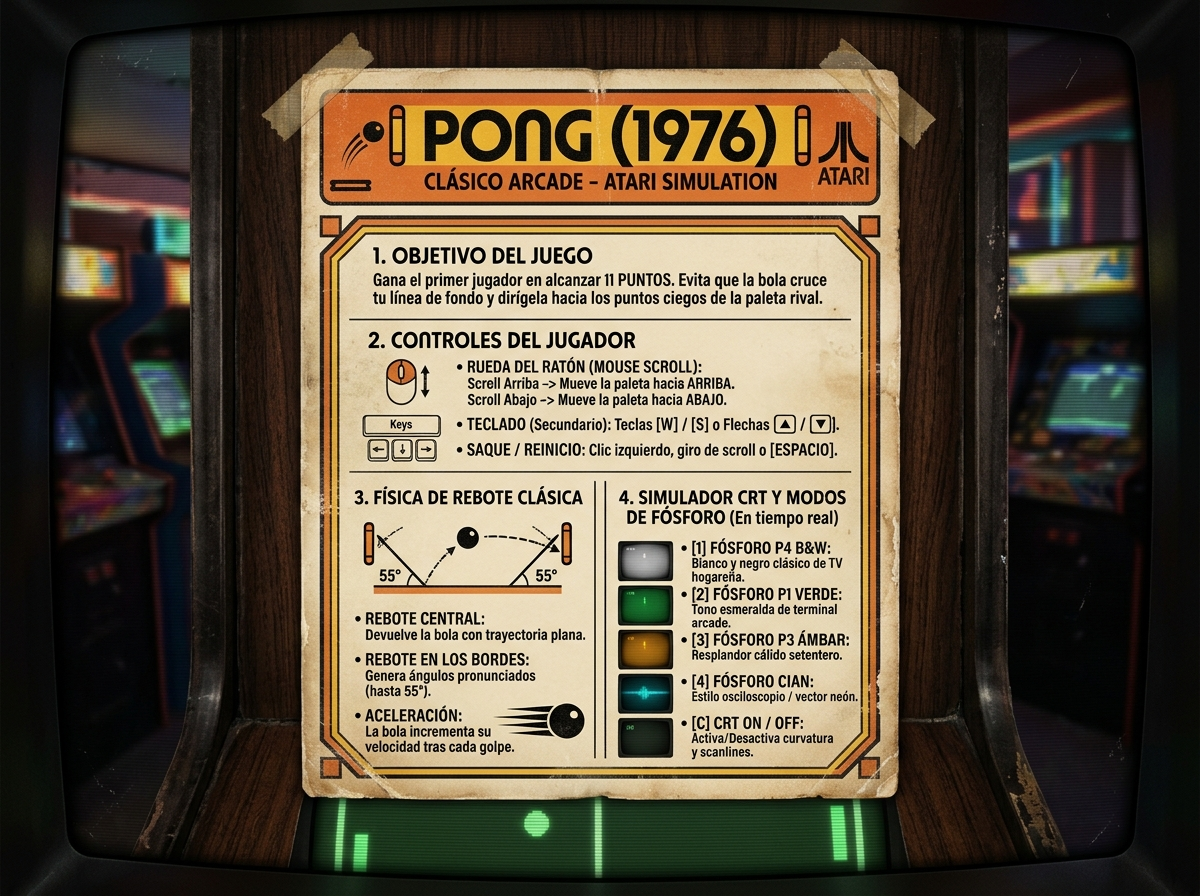
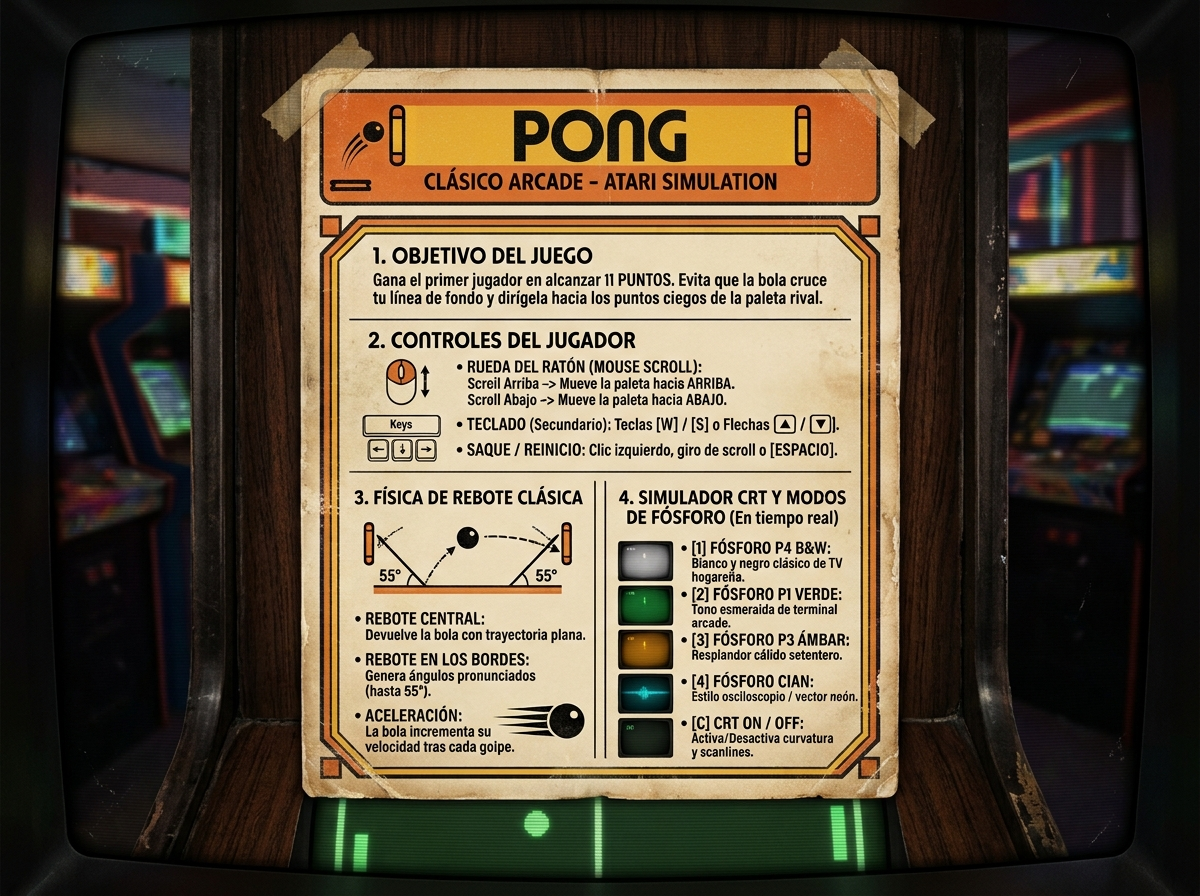
Update cover art to 1972-1973 Atari original release and remove 1976 year references from documentation

Changed region(s): [[0.3392, 0.0938, 0.6475, 0.1875], [0.6783, 0.125, 0.74, 0.2188]]

diff --git a/README.md b/README.md
@@ -1,17 +1,17 @@
 <div align="center">
 
-# 🕹 PONG 1976 — LA MAQUINITA DE LA FARMACIA
+# 🕹 PONG — LA MAQUINITA DE LA FARMACIA
 ### *Un viaje en el tiempo a aquellas tardes de domingo gastando las monedas de la mesada.*
 
 <br/>
 
-![PONG 1976 — Arcade Edition](portada.png)
+![PONG — Arcade Edition](portada.png)
 
 <br/>
 
 [![Godot Engine](https://img.shields.io/badge/Godot%20Engine-v4.7+-478CBF?style=for-the-badge&logo=godotengine&logoColor=white)](https://godotengine.org)
 [![Platform](https://img.shields.io/badge/Plataforma-Windows%20%7C%20Linux%20%7C%20macOS-blue?style=for-the-badge)](https://godotengine.org)
-[![Retro Vibe](https://img.shields.io/badge/Vintage-Atari%201976%20CRT-brightgreen?style=for-the-badge)](https://github.com)
+[![Retro Vibe](https://img.shields.io/badge/Vintage-Atari%20Arcade%20CRT-brightgreen?style=for-the-badge)](https://github.com)
 [![License](https://img.shields.io/badge/Licencia-MIT-orange?style=for-the-badge)](LICENSE)
 
 </div>
@@ -22,7 +22,7 @@
 
 > *"Había un ritual sagrado los domingos: juntar las pocas monedas que nos daban de domingo, salir con los amigos al barrio y plantarse frente a la maquinita que tenían puesta en la farmacia de la esquina. El sonido de los beeps rebotando en las paredes, el resplandor de la pantalla de tubo en la penumbra y la emoción de retar al que ganaba para que no se le acabara la ficha."*
 
-Este proyecto es un **homenaje de corazón a esa época dorada**. Desarrollado en **Godot 4**, recrea cada detalle sensorial del clásico **Atari Pong de 1976**: el rebote matemático exacto, los beeps de 8 bits generados por onda cuadrada y el inolvidable vidrio curvo de los televisores catódicos con fósforo persistente.
+Este proyecto es un **homenaje de corazón a esa época dorada**. Desarrollado en **Godot 4**, recrea cada detalle sensorial del clásico **Pong de Atari**: el rebote matemático exacto, los beeps de 8 bits generados por onda cuadrada y el inolvidable vidrio curvo de los televisores catódicos con fósforo persistente.
 
 ---
 
@@ -40,7 +40,7 @@ Este proyecto es un **homenaje de corazón a esa época dorada**. Desarrollado e
 
 ### 🎨 Selector de Fósforo en Tiempo Real
 Revive cómo se jugaba en distintos tipos de monitores clásicos pulsando una sola tecla:
-- <kbd>1</kbd> **P4 Blanco y Negro Original (1976)**: El tono plateado/azulado de los primeros televisores de sala.
+- <kbd>1</kbd> **P4 Blanco y Negro Clásico**: El tono plateado/azulado de los primeros televisores de sala.
 - <kbd>2</kbd> **P1 Fósforo Verde Arcade**: El icónico brillo verde esmeralda de las máquinas de arcade de salón.
 - <kbd>3</kbd> **P3 Fósforo Ámbar Vintage**: Tono cálido dorado setentero.
 - <kbd>4</kbd> **Fósforo Neón Cian**: Estilo monitor vector/láser.
@@ -72,7 +72,7 @@ Al iniciar el juego te recibe la **portada exterior limpia y nítida** que decor
 
 ## 🏆 Reglas del Juego
 
-- **Primero a 11 Puntos Gana**: Regla oficial del Pong de 1976.
+- **Primero a 11 Puntos Gana**: Regla oficial del Pong clásico de Atari.
 - **Física Angular**: Si golpeas la bola con el **centro de tu paleta**, sale disparada recta; si la cortas con los **extremos**, toma ángulos inclinados de hasta **55°** para descolocar a la máquina.
 - **Tensión Creciente**: Cada raquetazo exitoso acelera la bola un poco más.
 
@@ -83,7 +83,7 @@ Al iniciar el juego te recibe la **portada exterior limpia y nítida** que decor
 ### Opción A: Desde Godot Engine
 1. Descarga o clona este repositorio:
    ```bash
-   git clone https://github.com/TU_USUARIO/pong-1976-godot.git
+   git clone https://github.com/AbelVicencio/pong-1976-godot.git
    ```
 2. Abre **Godot Engine 4** e importa la carpeta del proyecto.
 3. Haz clic en **Ejecutar** (o pulsa <kbd>F5</kbd>).

diff --git a/pong.md b/pong.md
@@ -1,6 +1,6 @@
-# 📚 Manual de Arquitectura y Aprendizaje de Godot 4: PONG 1976
+# 📚 Manual de Arquitectura y Aprendizaje de Godot 4: PONG
 > **Guía Técnica para Desarrolladores de Software que Aprenden Godot Engine.**  
-> Basado en la implementación de *Pong 1976 (Atari Clone) con Shader CRT y Audio Procedural*.
+> Basado en la implementación de *Pong Clásico (Atari Clone) con Shader CRT y Audio Procedural*.
 
 ---
 
@@ -245,7 +245,7 @@ Muestreamos 8 puntos adyacentes en forma de estrella (`uv ± offset`) para simul
 
 ## 10. Física de Rebote Clásica e Inteligencia Artificial
 
-### Cálculo del Ángulo de Retorno (Atari 1976)
+### Cálculo del Ángulo de Retorno (Atari Pong Clásico)
 A diferencia de un rebote elástico convencional donde $\theta_{\text{salida}} = \theta_{\text{entrada}}$, en Pong el ángulo depende de la posición relativa de impacto en la paleta:
 
 ```gdscript
